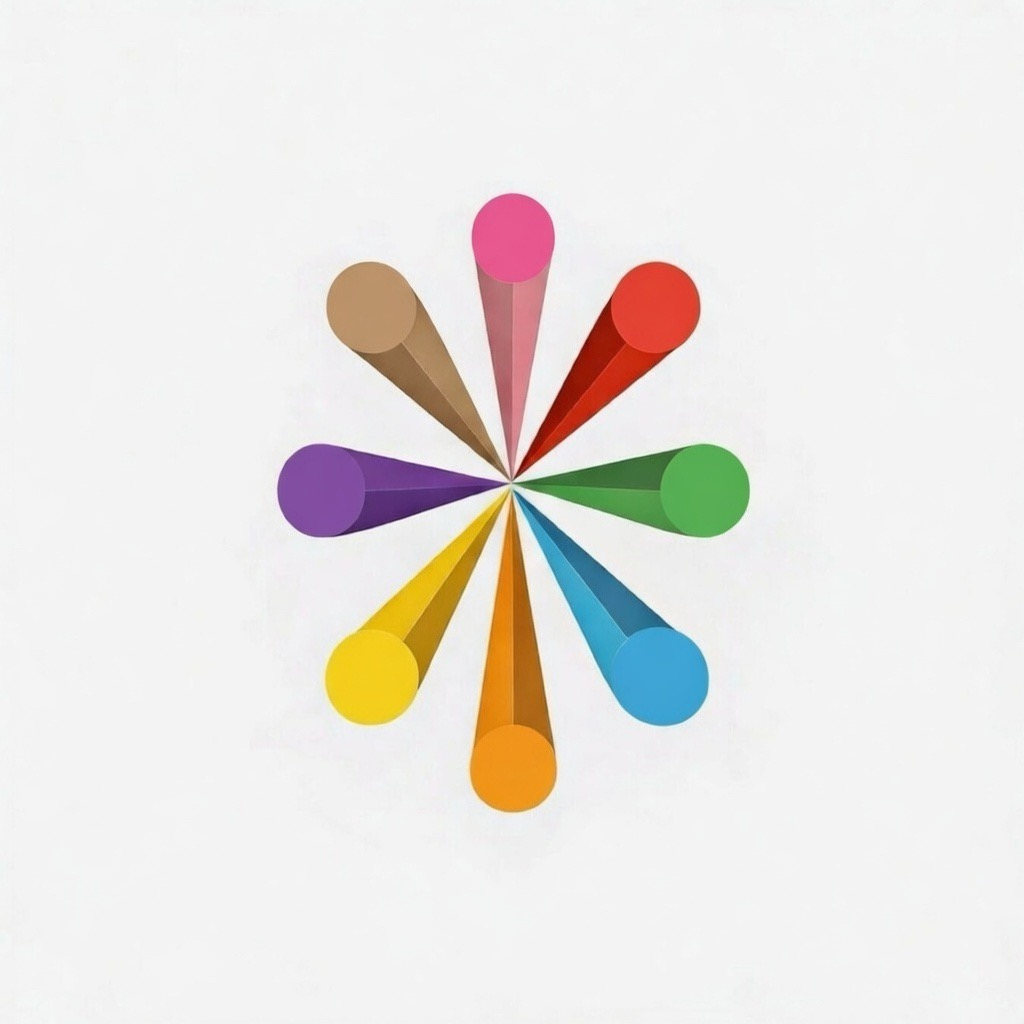
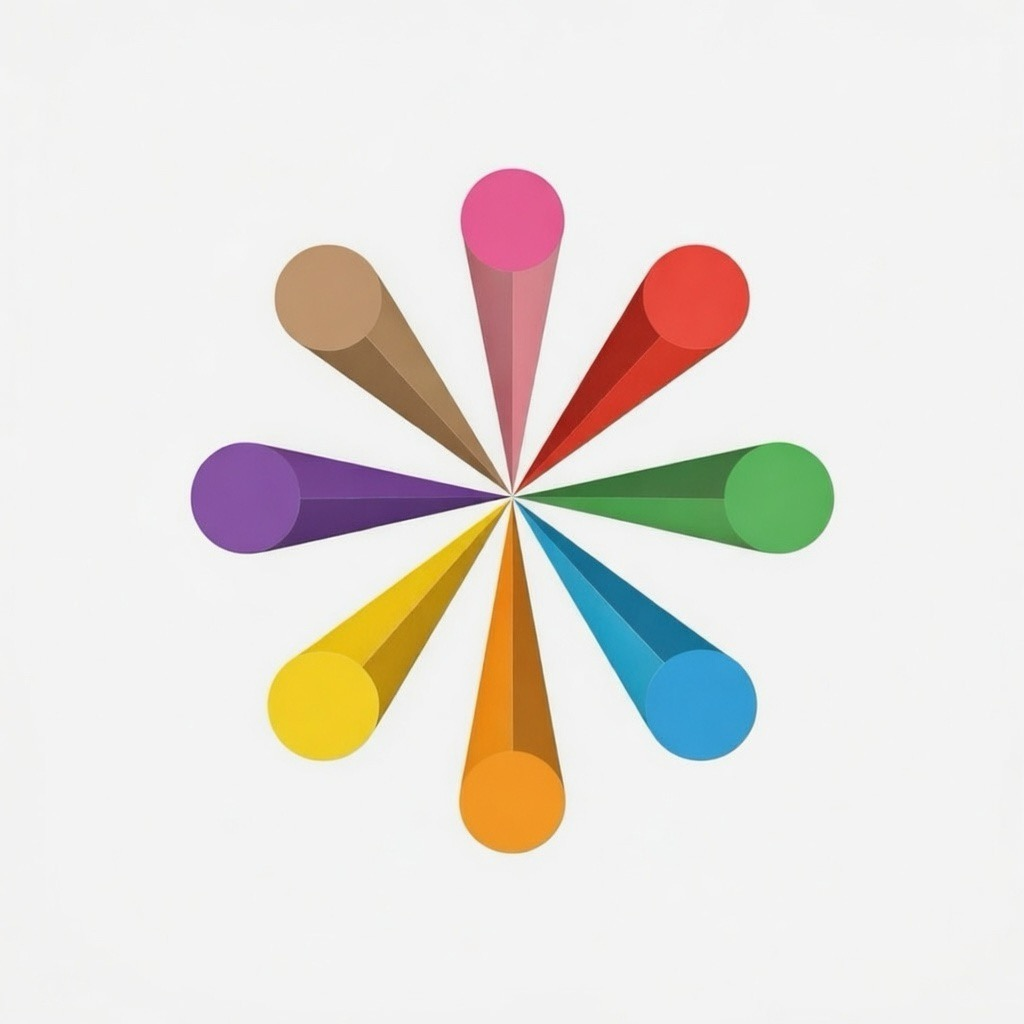
Adjust roadmap column text layout

Changed region(s): [[0.1875, 0.1562, 0.8125, 0.8438]]

diff --git a/src/constants/roadmapTemplateAssets.ts b/src/constants/roadmapTemplateAssets.ts
@@ -548,77 +548,119 @@ export const ROADMAP_IMAGE_BACKED_TEMPLATE_CONFIG: Partial<
   },
   vertical_icon_rail_5: {
     source: ROADMAP_TEMPLATE_IMAGES.vertical_icon_rail_5,
-    originalWidth: 832,
-    originalHeight: 1248,
+    originalWidth: 1024,
+    originalHeight: 1024,
     textSlots: [
       {
         circleId: 'c1',
-        label: { x: 0.12, y: 0.18, maxWidth: 0.34, align: 'left', color: '#111111', font: 'title' },
+        label: { x: 0.60, y: 0.05, maxWidth: 0.34, align: 'left', color: '#8B124F', font: 'title' },
         detail: {
-          x: 0.12,
-          y: 0.225,
+          x: 0.60,
+          y: 0.095,
           maxWidth: 0.34,
           align: 'left',
-          color: '#222222',
-          font: 'small',
-          lineHeightMultiplier: 1.2,
-          maxLines: 5,
+          color: '#252525',
+          font: 'body',
+          lineHeightMultiplier: 1.18,
+          maxLines: 3,
         },
       },
       {
         circleId: 'c2',
-        label: { x: 0.56, y: 0.35, maxWidth: 0.34, align: 'left', color: '#111111', font: 'title' },
+        label: { x: 0.60, y: 0.29, maxWidth: 0.34, align: 'left', color: '#A71111', font: 'title' },
         detail: {
-          x: 0.56,
-          y: 0.395,
+          x: 0.60,
+          y: 0.335,
           maxWidth: 0.34,
           align: 'left',
-          color: '#222222',
-          font: 'small',
-          lineHeightMultiplier: 1.2,
-          maxLines: 5,
+          color: '#252525',
+          font: 'body',
+          lineHeightMultiplier: 1.18,
+          maxLines: 3,
         },
       },
       {
         circleId: 'c3',
-        label: { x: 0.56, y: 0.53, maxWidth: 0.34, align: 'left', color: '#111111', font: 'title' },
+        label: { x: 0.60, y: 0.53, maxWidth: 0.34, align: 'left', color: '#4C8D4F', font: 'title' },
         detail: {
-          x: 0.56,
+          x: 0.60,
           y: 0.575,
           maxWidth: 0.34,
           align: 'left',
-          color: '#222222',
-          font: 'small',
-          lineHeightMultiplier: 1.2,
-          maxLines: 5,
+          color: '#252525',
+          font: 'body',
+          lineHeightMultiplier: 1.18,
+          maxLines: 3,
         },
       },
       {
         circleId: 'c4',
-        label: { x: 0.12, y: 0.70, maxWidth: 0.34, align: 'left', color: '#111111', font: 'title' },
+        label: { x: 0.60, y: 0.76, maxWidth: 0.34, align: 'left', color: '#2D85B7', font: 'title' },
         detail: {
-          x: 0.12,
-          y: 0.745,
+          x: 0.60,
+          y: 0.805,
           maxWidth: 0.34,
           align: 'left',
-          color: '#222222',
-          font: 'small',
-          lineHeightMultiplier: 1.2,
-          maxLines: 5,
+          color: '#252525',
+          font: 'body',
+          lineHeightMultiplier: 1.18,
+          maxLines: 3,
         },
       },
       {
         circleId: 'c5',
-        label: { x: 0.56, y: 0.86, maxWidth: 0.34, align: 'left', color: '#111111', font: 'title' },
+        label: { x: 0.03, y: 0.78, maxWidth: 0.34, align: 'left', color: '#C88703', font: 'title' },
         detail: {
-          x: 0.56,
-          y: 0.905,
+          x: 0.03,
+          y: 0.825,
           maxWidth: 0.34,
           align: 'left',
-          color: '#222222',
-          font: 'small',
-          lineHeightMultiplier: 1.2,
-          maxLines: 5,
+          color: '#252525',
+          font: 'body',
+          lineHeightMultiplier: 1.18,
+          maxLines: 3,
+        },
+      },
+      {
+        circleId: 'c6',
+        label: { x: 0.03, y: 0.55, maxWidth: 0.34, align: 'left', color: '#C88703', font: 'title' },
+        detail: {
+          x: 0.03,
+          y: 0.595,
+          maxWidth: 0.34,
+          align: 'left',
+          color: '#252525',
+          font: 'body',
+          lineHeightMultiplier: 1.18,
+          maxLines: 3,
+        },
+      },
+      {
+        circleId: 'c7',
+        label: { x: 0.03, y: 0.30, maxWidth: 0.34, align: 'left', color: '#6E3C9B', font: 'title' },
+        detail: {
+          x: 0.03,
+          y: 0.345,
+          maxWidth: 0.34,
+          align: 'left',
+          color: '#252525',
+          font: 'body',
+          lineHeightMultiplier: 1.18,
+          maxLines: 3,
+        },
+      },
+      {
+        circleId: 'c8',
+        label: { x: 0.03, y: 0.05, maxWidth: 0.34, align: 'left', color: '#C88703', font: 'title' },
+        detail: {
+          x: 0.03,
+          y: 0.095,
+          maxWidth: 0.34,
+          align: 'left',
+          color: '#252525',
+          font: 'body',
+          lineHeightMultiplier: 1.18,
+          maxLines: 3,
         },
       },
     ],
@@ -721,114 +763,114 @@ export const ROADMAP_IMAGE_BACKED_TEMPLATE_CONFIG: Partial<
     textSlots: [
       {
         circleId: 'c1',
-        label: { x: 0.73, y: 0.15, maxWidth: 0.24, align: 'left', color: '#8B124F', font: 'title' },
+        label: { x: 0.87, y: 0.17, maxWidth: 0.26, align: 'left', color: '#EC6AA0', font: 'title' },
         detail: {
-          x: 0.73,
-          y: 0.195,
-          maxWidth: 0.24,
+          x: 0.87,
+          y: 0.218,
+          maxWidth: 0.26,
           align: 'left',
           color: '#252525',
           font: 'body',
           lineHeightMultiplier: 1.18,
-          maxLines: 5,
+          maxLines: 4,
         },
       },
       {
         circleId: 'c2',
-        label: { x: 0.74, y: 0.36, maxWidth: 0.24, align: 'left', color: '#A71111', font: 'title' },
+        label: { x: 0.87, y: 0.395, maxWidth: 0.26, align: 'left', color: '#A71111', font: 'title' },
         detail: {
-          x: 0.74,
-          y: 0.405,
-          maxWidth: 0.24,
+          x: 0.87,
+          y: 0.443,
+          maxWidth: 0.26,
           align: 'left',
           color: '#252525',
           font: 'body',
           lineHeightMultiplier: 1.18,
-          maxLines: 5,
+          maxLines: 4,
         },
       },
       {
         circleId: 'c3',
-        label: { x: 0.73, y: 0.55, maxWidth: 0.24, align: 'left', color: '#4C8D4F', font: 'title' },
+        label: { x: 0.87, y: 0.615, maxWidth: 0.26, align: 'left', color: '#4C8D4F', font: 'title' },
         detail: {
-          x: 0.73,
-          y: 0.595,
-          maxWidth: 0.24,
+          x: 0.87,
+          y: 0.663,
+          maxWidth: 0.26,
           align: 'left',
           color: '#252525',
           font: 'body',
           lineHeightMultiplier: 1.18,
-          maxLines: 5,
+          maxLines: 4,
         },
       },
       {
         circleId: 'c4',
-        label: { x: 0.73, y: 0.79, maxWidth: 0.24, align: 'left', color: '#2D85B7', font: 'title' },
+        label: { x: 0.87, y: 0.835, maxWidth: 0.26, align: 'left', color: '#2D85B7', font: 'title' },
         detail: {
-          x: 0.73,
-          y: 0.835,
-          maxWidth: 0.24,
+          x: 0.87,
+          y: 0.883,
+          maxWidth: 0.26,
           align: 'left',
           color: '#252525',
           font: 'body',
           lineHeightMultiplier: 1.18,
-          maxLines: 5,
+          maxLines: 4,
         },
       },
       {
         circleId: 'c5',
-        label: { x: 0.03, y: 0.79, maxWidth: 0.24, align: 'left', color: '#C88703', font: 'title' },
+        label: { x: 0.03, y: 0.885, maxWidth: 0.26, align: 'left', color: '#C88703', font: 'title' },
         detail: {
           x: 0.03,
-          y: 0.835,
-          maxWidth: 0.24,
+          y: 0.933,
+          maxWidth: 0.26,
           align: 'left',
           color: '#252525',
           font: 'body',
           lineHeightMultiplier: 1.18,
-          maxLines: 5,
+          maxLines: 4,
         },
       },
       {
         circleId: 'c6',
-        label: { x: 0.03, y: 0.55, maxWidth: 0.24, align: 'left', color: '#C88703', font: 'title' },
+        label: { x: 0.03, y: 0.665, maxWidth: 0.26, align: 'left', color: '#F4C20D', font: 'title' },
         detail: {
           x: 0.03,
-          y: 0.595,
-          maxWidth: 0.24,
+          y: 0.713,
+          maxWidth: 0.26,
           align: 'left',
           color: '#252525',
           font: 'body',
           lineHeightMultiplier: 1.18,
-          maxLines: 5,
+          maxLines: 4,
         },
       },
       {
         circleId: 'c7',
-        label: { x: 0.03, y: 0.36, maxWidth: 0.24, align: 'left', color: '#6E3C9B', font: 'title' },
+        label: { x: 0.03, y: 0.395, maxWidth: 0.26, align: 'left', color: '#6E3C9B', font: 'title' },
         detail: {
           x: 0.03,
-          y: 0.405,
-          maxWidth: 0.24,
+          y: 0.443,
+          maxWidth: 0.26,
           align: 'left',
           color: '#252525',
           font: 'body',
           lineHeightMultiplier: 1.18,
-          maxLines: 5,
+          maxLines: 4,
         },
       },
       {
         circleId: 'c8',
-        label: { x: 0.03, y: 0.15, maxWidth: 0.24, align: 'left', color: '#C88703', font: 'title' },
+        label: { x: 0.03, y: 0.17, maxWidth: 0.26, align: 'left', color: '#C88703', font: 'title' },
         detail: {
           x: 0.03,
-          y: 0.195,
-          maxWidth: 0.24,
+          y: 0.218,
+          maxWidth: 0.26,
           align: 'left',
           color: '#252525',
           font: 'body',
           lineHeightMultiplier: 1.18,
-          maxLines: 5,
+          maxLines: 4,
         },
       },
     ],

diff --git a/src/constants/roadmapTemplates.ts b/src/constants/roadmapTemplates.ts
@@ -137,19 +137,22 @@ export const WINDING_5_ROAD_TEMPLATE: RoadmapTemplate = {
   defaultDashPattern: ROADMAP_DEFAULTS.dashPattern,
 };
 
-// Template 11: Vertical icon rail with five alternating content blocks
-// Image-backed; hidden tap targets map to the five title/description zones.
+// Template 11: Radial pinwheel with eight colored spokes
+// Image-backed; eight tap targets at spoke tips map to title/description zones.
 export const VERTICAL_ICON_RAIL_5_TEMPLATE: RoadmapTemplate = {
   id: 'vertical_icon_rail_5',
   name: 'Vertical Icon Rail',
-  description: 'Five-stage rail with alternating icon callouts',
-  circleCount: 5,
+  description: 'Eight-point radial pinwheel with side callouts',
+  circleCount: 8,
   circles: [
-    { id: 'c1', position: { x: 0.24, y: 0.20 }, radius: 0.07, labelPosition: 'bottom' },
-    { id: 'c2', position: { x: 0.74, y: 0.36 }, radius: 0.07, labelPosition: 'bottom' },
-    { id: 'c3', position: { x: 0.74, y: 0.54 }, radius: 0.07, labelPosition: 'bottom' },
-    { id: 'c4', position: { x: 0.24, y: 0.70 }, radius: 0.07, labelPosition: 'bottom' },
-    { id: 'c5', position: { x: 0.74, y: 0.86 }, radius: 0.07, labelPosition: 'bottom' },
+    { id: 'c1', position: { x: 0.50, y: 0.15 }, radius: 0.06, labelPosition: 'bottom' },
+    { id: 'c2', position: { x: 0.66, y: 0.25 }, radius: 0.06, labelPosition: 'bottom' },
+    { id: 'c3', position: { x: 0.73, y: 0.45 }, radius: 0.06, labelPosition: 'bottom' },
+    { id: 'c4', position: { x: 0.66, y: 0.63 }, radius: 0.06, labelPosition: 'bottom' },
+    { id: 'c5', position: { x: 0.50, y: 0.73 }, radius: 0.06, labelPosition: 'bottom' },
+    { id: 'c6', position: { x: 0.37, y: 0.63 }, radius: 0.06, labelPosition: 'bottom' },
+    { id: 'c7', position: { x: 0.27, y: 0.45 }, radius: 0.06, labelPosition: 'bottom' },
+    { id: 'c8', position: { x: 0.37, y: 0.25 }, radius: 0.06, labelPosition: 'bottom' },
   ],
   connectors: [],
   defaultStrokeColor: ROADMAP_DEFAULTS.strokeColor,

diff --git a/src/types/roadmap.ts b/src/types/roadmap.ts
@@ -198,19 +198,11 @@ export function createDefaultCircleContent(
   }
 
   if (template.id === 'vertical_icon_rail_5') {
-    const defaultTitles = ['Ideation', 'Planning', 'Execution', 'Review', 'Launch'];
-    const defaultDetails = [
-      'Brainstorming\nConcept development\nResearch',
-      'Strategy\nTimeline\nResource allocation',
-      'Implementation\nTesting\nFeedback',
-      'Analysis\nRefinement\nApproval',
-      'Deployment\nMonitoring\nEvaluation',
-    ];
-    return template.circles.map((circle, index) => ({
+    return template.circles.map(circle => ({
       circleId: circle.id,
-      label: defaultTitles[index] || `Step ${index + 1}`,
+      label: 'Lorem Ipsum',
       contentType: 'text' as const,
-      text: defaultDetails[index] || 'Add your details here.',
+      text: 'Lorem ipsum dolor sit mibh,\nA magna maecenas, quam nec quis,\nlorem nunc. Suspendisse viverra.',
     }));
   }
 
